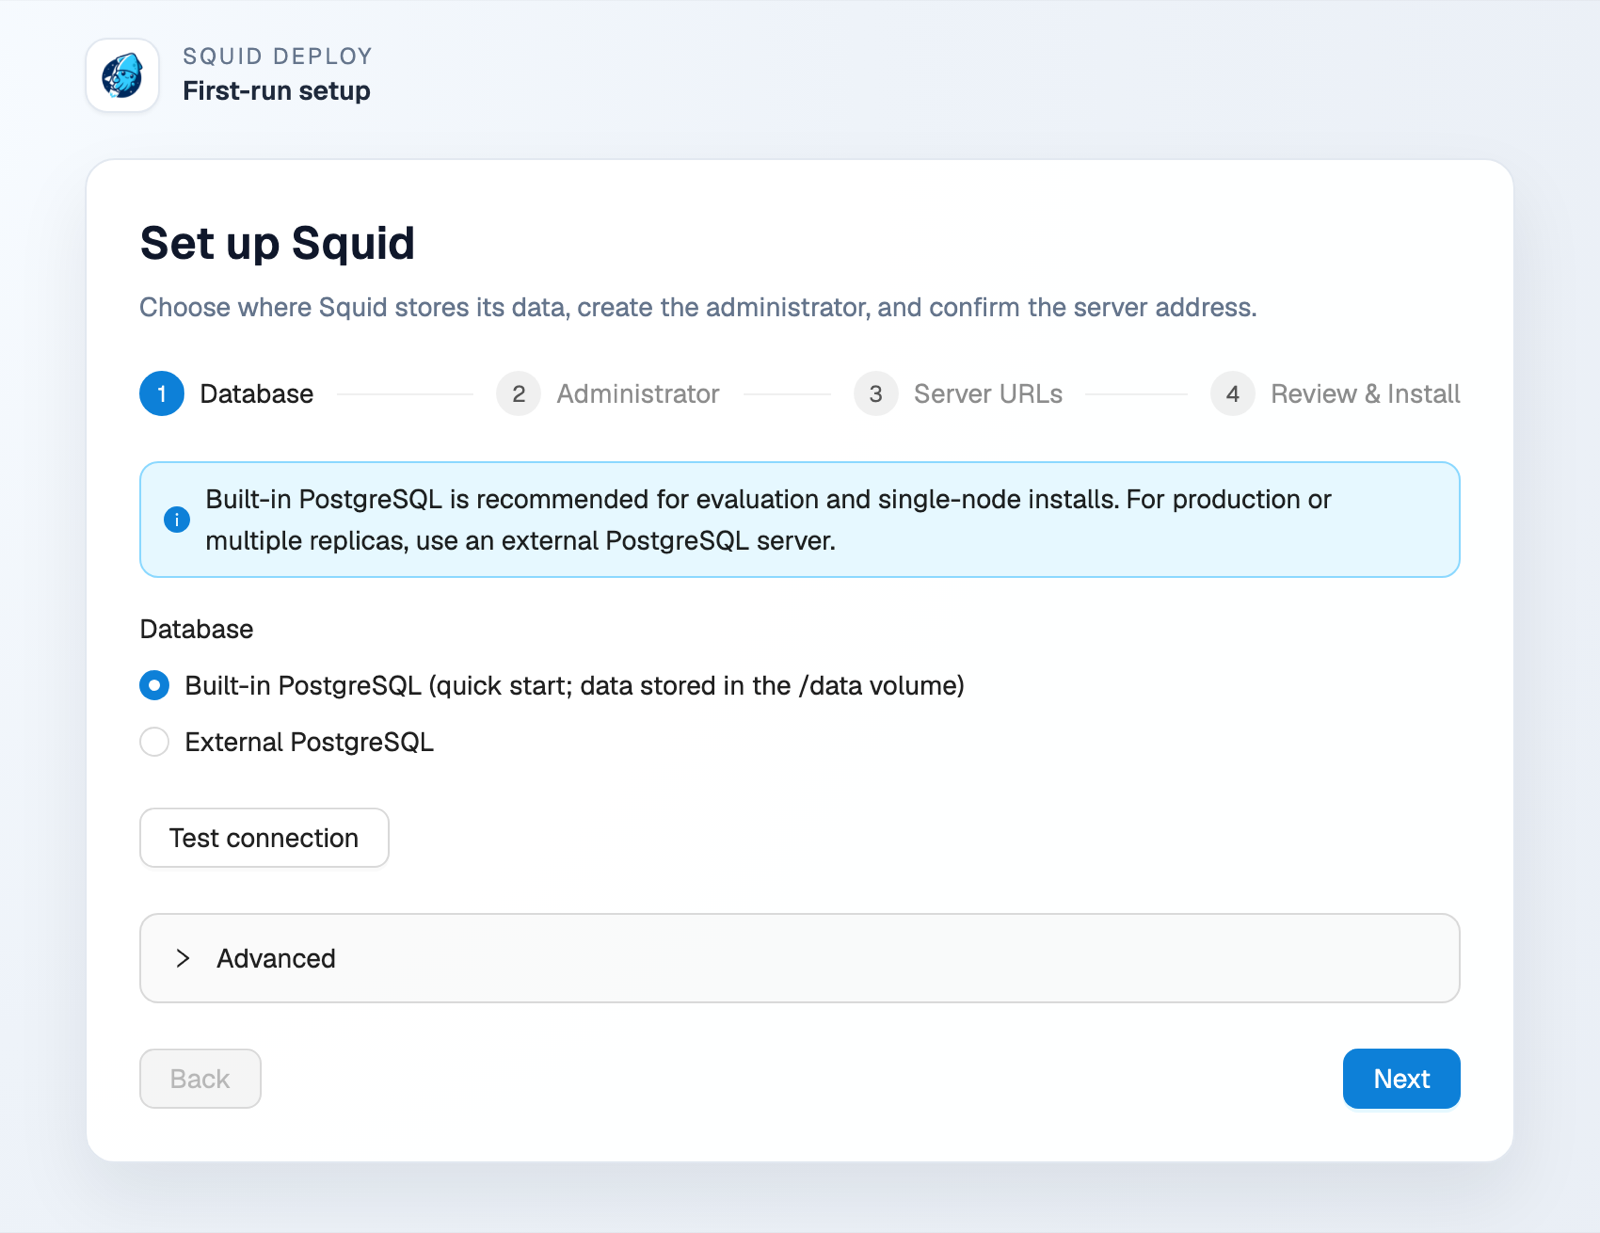
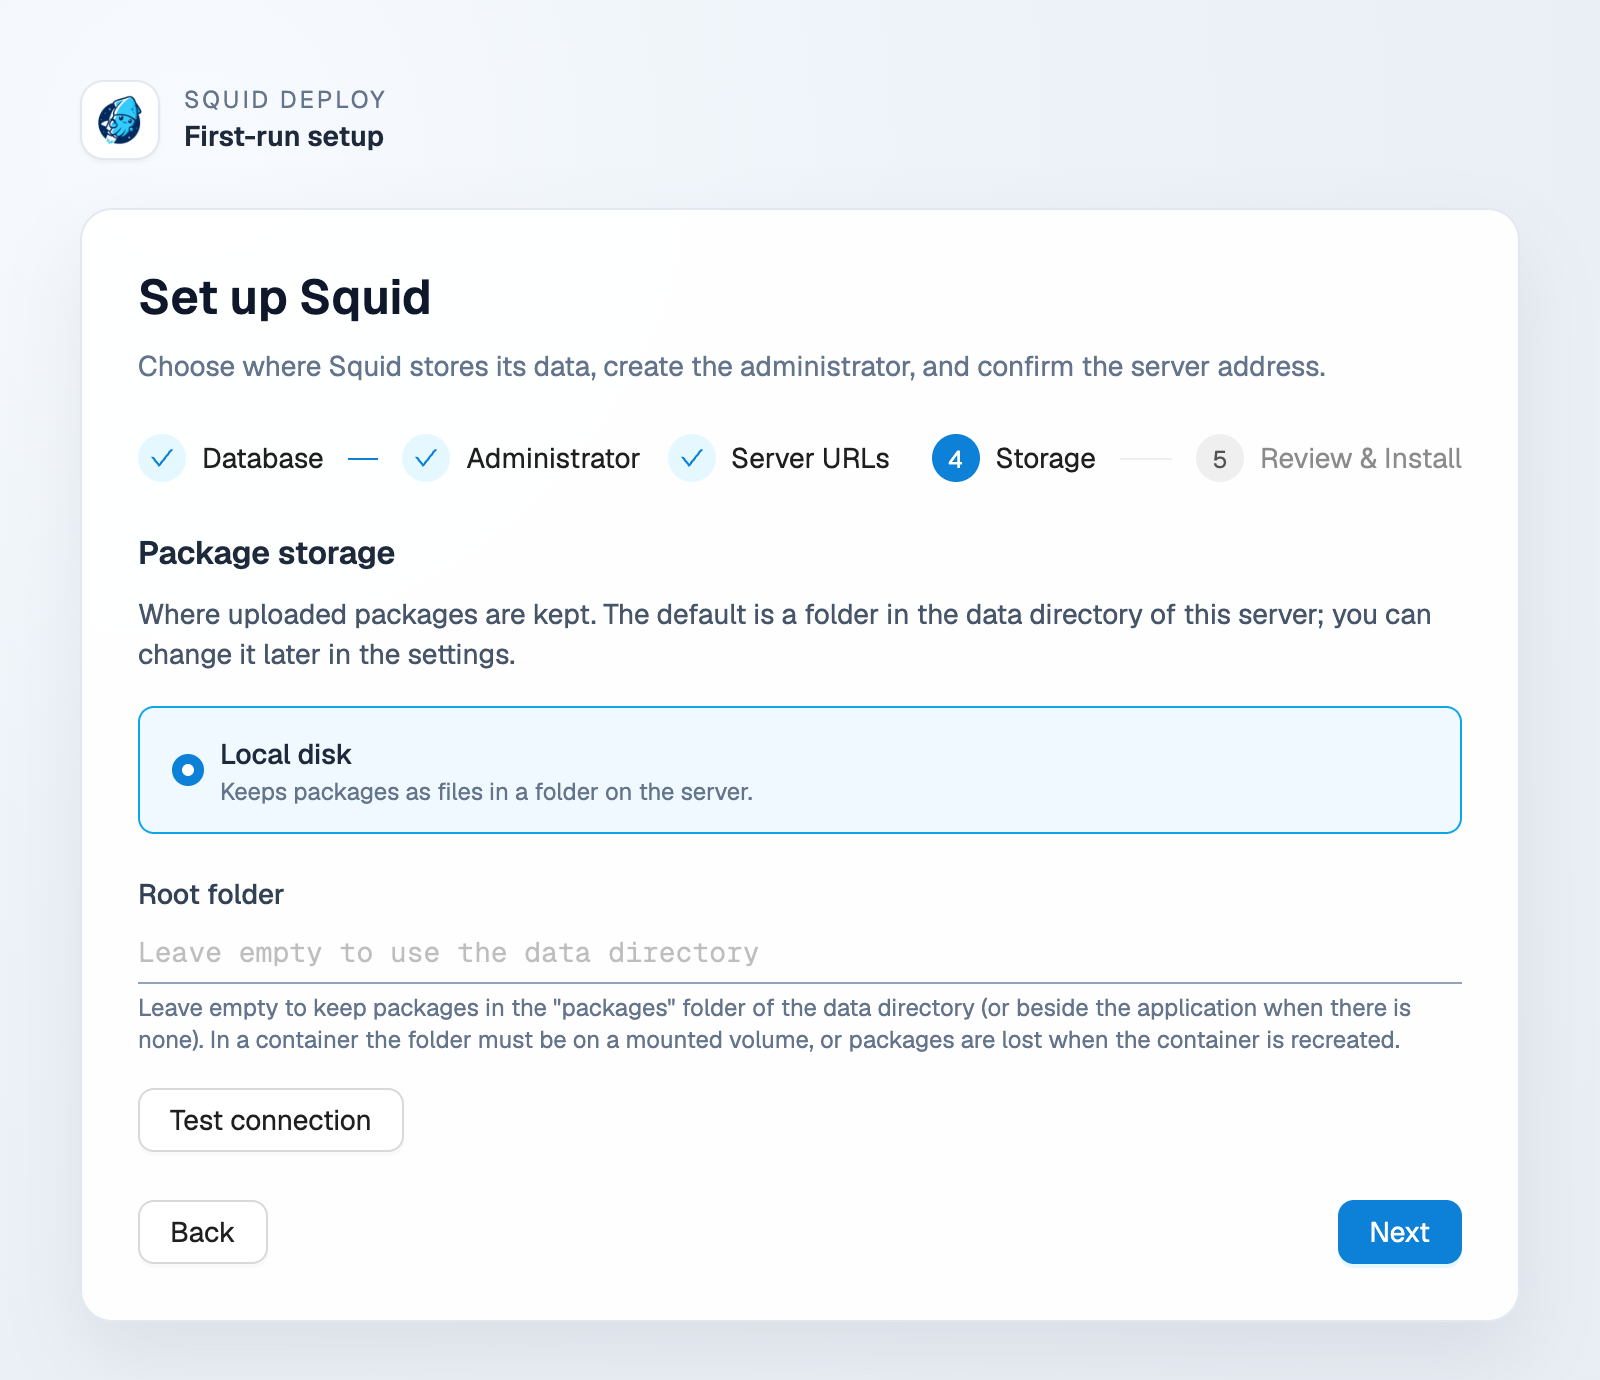
Show the package storage step in the README setup screenshot (#675)
- The first-run setup gained a Storage step (Database → Administrator → Server URLs → Storage → Review & Install). The README screenshot at `branding/readme/setup-wizard.png` still showed the four-step wizard on the Database step; it now shows the Storage step, captured from the current web app at the same 2x width (1600 px).
- The image alt text in `README.md` names the new step.

diff --git a/README.md b/README.md
@@ -60,7 +60,7 @@ Kubernetes ([chart options](deploy/helm/squid-server/README.md)):
 helm install squid oci://registry-1.docker.io/squidcd/squid-server
 ```
 
-<img src="branding/readme/setup-wizard.png" alt="Squid first-run setup page: choose the built-in or your own PostgreSQL, create the administrator, confirm the server URLs, then install" width="100%">
+<img src="branding/readme/setup-wizard.png" alt="Squid first-run setup page: choose the built-in or your own PostgreSQL, create the administrator, confirm the server URLs, choose where packages are stored, then install" width="100%">
 
 ## 🔄 Migrating from Octopus
 
